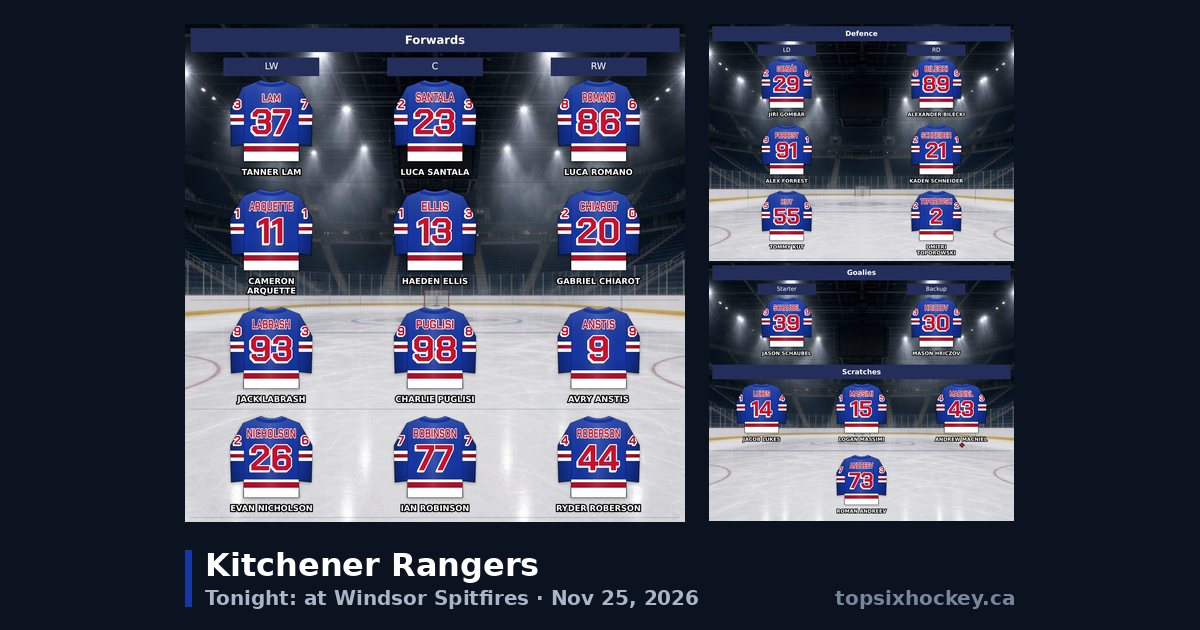
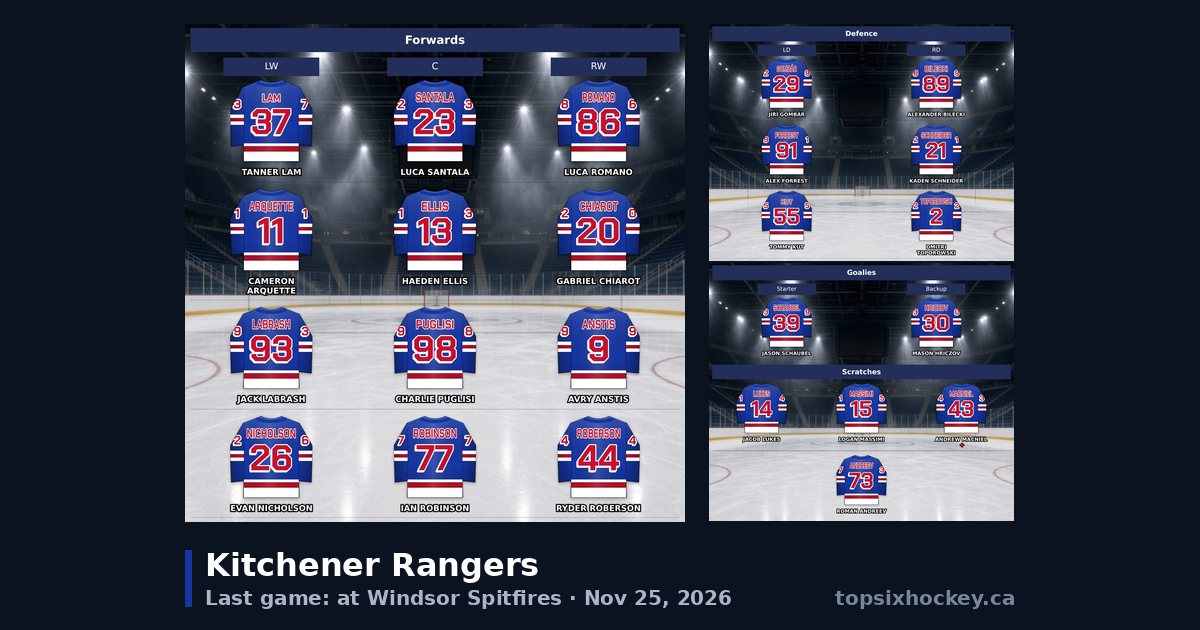
Update team share pages

Changed region(s): [[0.1542, 0.9349, 0.6167, 0.9651]]

diff --git a/ohl/kitchener-rangers/index.html b/ohl/kitchener-rangers/index.html
@@ -2,21 +2,21 @@
 <html lang="en"><head><meta charset="utf-8">
 <title>Kitchener Rangers Line Combinations | Top Six Hockey</title>
 <meta name="viewport" content="width=device-width, initial-scale=1">
-<meta name="description" content="Kitchener Rangers lines: forwards, defence pairings, goalies and scratches. Tonight: at Windsor Spitfires · Nov 25, 2026.">
+<meta name="description" content="Kitchener Rangers lines: forwards, defence pairings, goalies and scratches. Last game: at Windsor Spitfires · Nov 25, 2026.">
 <link rel="canonical" href="https://topsixhockey.ca/ohl/kitchener-rangers/">
 <meta property="og:type" content="website">
 <meta property="og:site_name" content="Top Six Hockey">
 <meta property="og:title" content="Kitchener Rangers lineup | Top Six Hockey">
-<meta property="og:description" content="Kitchener Rangers lines: forwards, defence pairings, goalies and scratches. Tonight: at Windsor Spitfires · Nov 25, 2026.">
+<meta property="og:description" content="Kitchener Rangers lines: forwards, defence pairings, goalies and scratches. Last game: at Windsor Spitfires · Nov 25, 2026.">
 <meta property="og:url" content="https://topsixhockey.ca/ohl/kitchener-rangers/">
-<meta property="og:image" content="https://topsixhockey.ca/og/ohl-kitchener-rangers.jpg?v=6379647038">
+<meta property="og:image" content="https://topsixhockey.ca/og/ohl-kitchener-rangers.jpg?v=d905b86a38">
 <meta property="og:image:width" content="1200">
 <meta property="og:image:height" content="630">
 <meta name="twitter:card" content="summary_large_image">
 <meta name="twitter:site" content="@TopSixHockey6">
 <meta name="twitter:title" content="Kitchener Rangers lineup | Top Six Hockey">
-<meta name="twitter:description" content="Kitchener Rangers lines: forwards, defence pairings, goalies and scratches. Tonight: at Windsor Spitfires · Nov 25, 2026.">
-<meta name="twitter:image" content="https://topsixhockey.ca/og/ohl-kitchener-rangers.jpg?v=6379647038">
+<meta name="twitter:description" content="Kitchener Rangers lines: forwards, defence pairings, goalies and scratches. Last game: at Windsor Spitfires · Nov 25, 2026.">
+<meta name="twitter:image" content="https://topsixhockey.ca/og/ohl-kitchener-rangers.jpg?v=d905b86a38">
 <script>location.replace("/?team=kitchener");</script>
 </head><body style="margin:0;background:#0b1220;color:#fff;font:16px system-ui,sans-serif;display:flex;min-height:100vh;align-items:center;justify-content:center">
 <p>Opening the Kitchener Rangers lineup&hellip; <a style="color:#f2b705" href="/?team=kitchener">Continue</a></p>

diff --git a/ohl/windsor-spitfires/index.html b/ohl/windsor-spitfires/index.html
@@ -2,21 +2,21 @@
 <html lang="en"><head><meta charset="utf-8">
 <title>Windsor Spitfires Line Combinations | Top Six Hockey</title>
 <meta name="viewport" content="width=device-width, initial-scale=1">
-<meta name="description" content="Windsor Spitfires lines: forwards, defence pairings, goalies and scratches. Tonight: vs Kitchener Rangers · Nov 25, 2026.">
+<meta name="description" content="Windsor Spitfires lines: forwards, defence pairings, goalies and scratches. Last game: vs Kitchener Rangers · Nov 25, 2026.">
 <link rel="canonical" href="https://topsixhockey.ca/ohl/windsor-spitfires/">
 <meta property="og:type" content="website">
 <meta property="og:site_name" content="Top Six Hockey">
 <meta property="og:title" content="Windsor Spitfires lineup | Top Six Hockey">
-<meta property="og:description" content="Windsor Spitfires lines: forwards, defence pairings, goalies and scratches. Tonight: vs Kitchener Rangers · Nov 25, 2026.">
+<meta property="og:description" content="Windsor Spitfires lines: forwards, defence pairings, goalies and scratches. Last game: vs Kitchener Rangers · Nov 25, 2026.">
 <meta property="og:url" content="https://topsixhockey.ca/ohl/windsor-spitfires/">
-<meta property="og:image" content="https://topsixhockey.ca/og/ohl-windsor-spitfires.jpg?v=2be0407b28">
+<meta property="og:image" content="https://topsixhockey.ca/og/ohl-windsor-spitfires.jpg?v=8b294346ef">
 <meta property="og:image:width" content="1200">
 <meta property="og:image:height" content="630">
 <meta name="twitter:card" content="summary_large_image">
 <meta name="twitter:site" content="@TopSixHockey6">
 <meta name="twitter:title" content="Windsor Spitfires lineup | Top Six Hockey">
-<meta name="twitter:description" content="Windsor Spitfires lines: forwards, defence pairings, goalies and scratches. Tonight: vs Kitchener Rangers · Nov 25, 2026.">
-<meta name="twitter:image" content="https://topsixhockey.ca/og/ohl-windsor-spitfires.jpg?v=2be0407b28">
+<meta name="twitter:description" content="Windsor Spitfires lines: forwards, defence pairings, goalies and scratches. Last game: vs Kitchener Rangers · Nov 25, 2026.">
+<meta name="twitter:image" content="https://topsixhockey.ca/og/ohl-windsor-spitfires.jpg?v=8b294346ef">
 <script>location.replace("/?team=windsor");</script>
 </head><body style="margin:0;background:#0b1220;color:#fff;font:16px system-ui,sans-serif;display:flex;min-height:100vh;align-items:center;justify-content:center">
 <p>Opening the Windsor Spitfires lineup&hellip; <a style="color:#f2b705" href="/?team=windsor">Continue</a></p>
